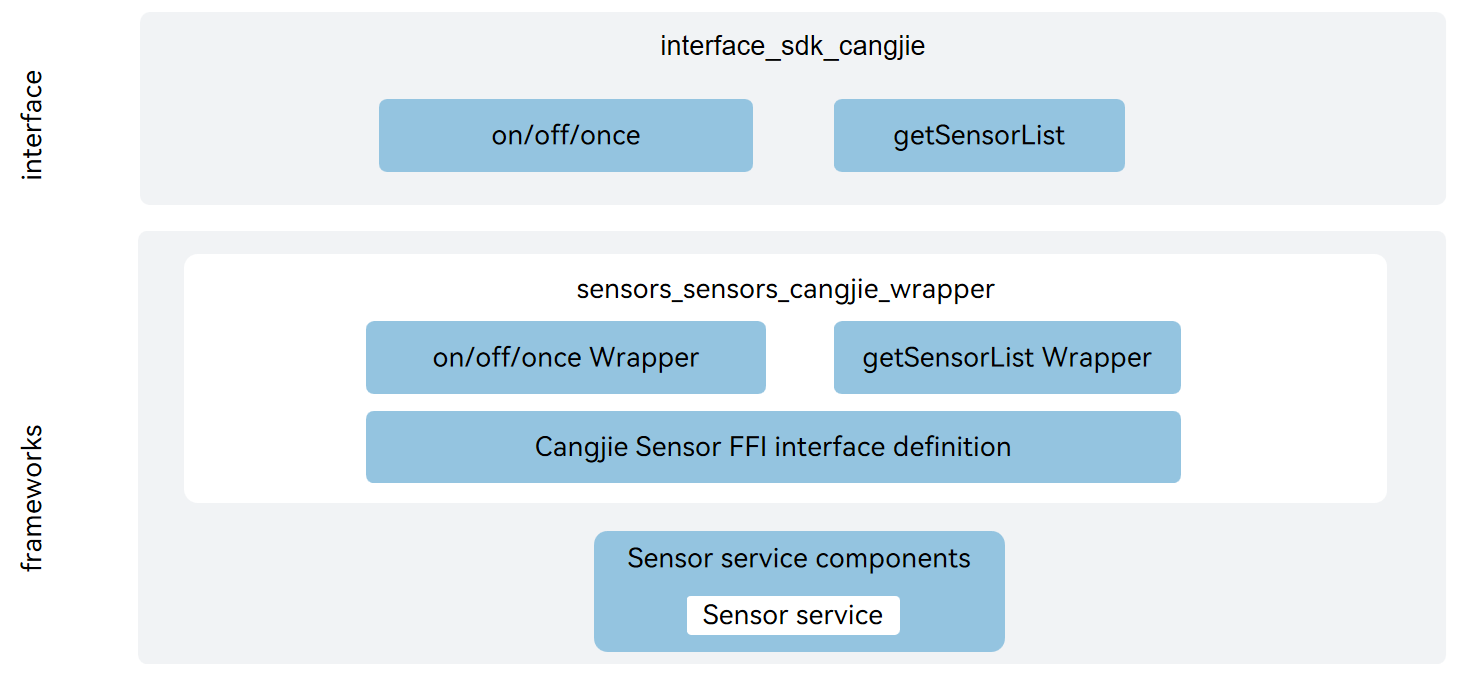
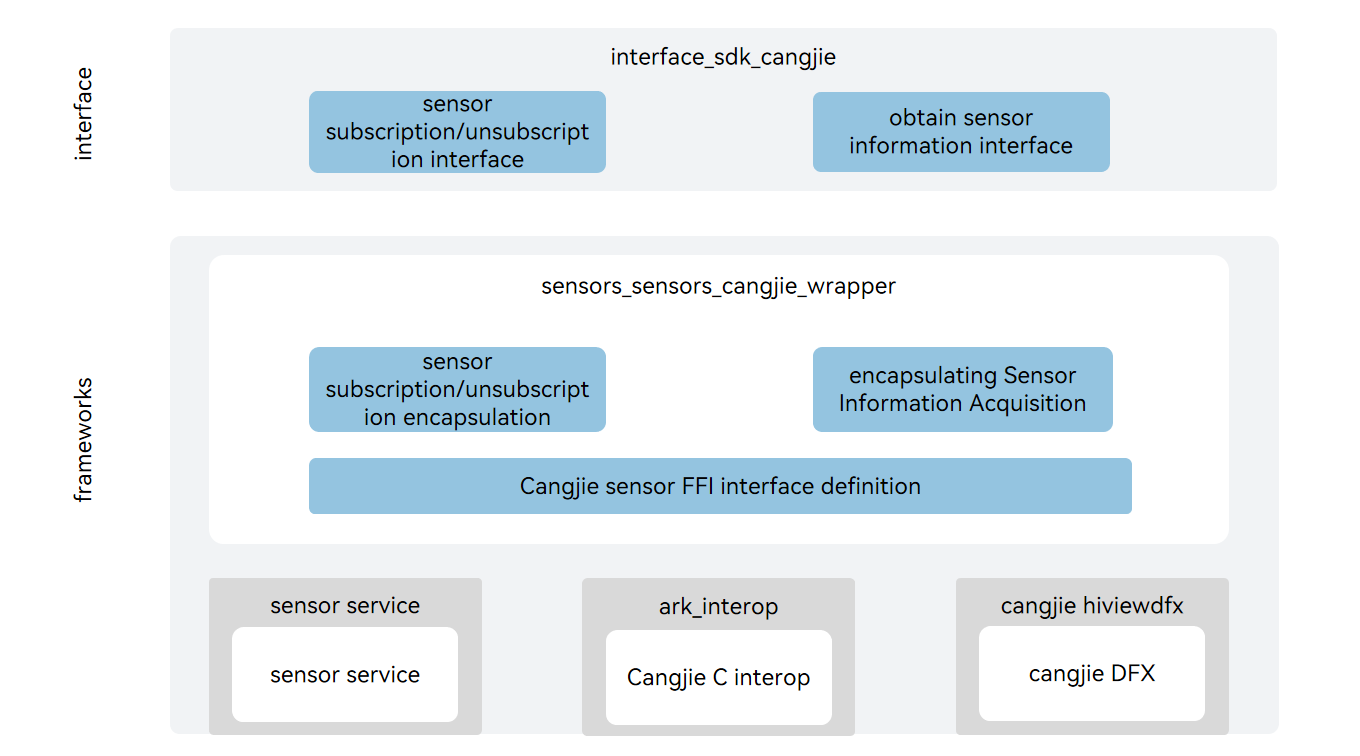
fix readme

diff --git a/README.md b/README.md
@@ -17,8 +17,8 @@ As shown in the architecture:
   - subscribing to or unsubscribing from sensor data.
   - obtaining Sensor data.
 - Interface encapsulation: Implement Sensor service capabilities using Cangjie.
-- Sensor Cangjie FFI interface definition: responsible for defining the C interoperability Cangjie interface, used to implement Cangjie Sensor capabilities.
-- Sensor Service: Responsible for providing basic Sensor functions and encapsulating C interfaces for interoperability with Cangjie.
+- Sensor Cangjie FFI interface definition: responsible for defining the C language interoperability Cangjie interface, used to implement Cangjie Sensor capabilities.
+- Sensor Service: Responsible for providing basic Sensor functions and encapsulating C language interfaces for interoperability with Cangjie.
 
 ## Directory Structure
 
@@ -44,7 +44,7 @@ As shown in the diagram, Sensor Service Cangjie provides the following capabilit
 - querying the sensor list.
 - subscribing to or unsubscribing from sensor data.
 
-Please refer to the Sensor related API for details[ohos.sensor(Sensors)](https://gitcode.com/openharmony-sig/arkcompiler_cangjie_ark_interop/blob/master/doc/API_Reference/source_en/apis/SensorServiceKit/cj-apis-sensor.md). 
+Please refer to the Sensor related API for details[ohos.sensor(Sensors)](https://gitcode.com/openharmony-sig/arkcompiler_cangjie_ark_interop/blob/master/doc/API_Reference/source_en/apis/SensorServiceKit/cj-apis-sensor.md).
 For relevant guidance, please refer to[Introduction to Sensor Service Kit Development](https://gitcode.com/openharmony-sig/arkcompiler_cangjie_ark_interop/blob/master/doc/Dev_Guide/source_en/device/sensor/cj-sensor-overview.md).
 
 Compared to ArkTS, the following features are currently not supported:
@@ -61,3 +61,7 @@ Developers are welcome to contribute code, documentation, etc. For specific cont
 ## Repositories Involved
 
 [sensors\_sensor](https://gitee.com/openharmony/sensors_sensor/blob/master/README.md)
+
+[cangjie_ark_interop](https://gitcode.com/openharmony-sig/arkcompiler_cangjie_ark_interop/blob/master/README.md)
+
+[hiviewdfx_cangjie_wrapper](https://gitcode.com/openharmony-sig/hiviewdfx_hiviewdfx_cangjie_wrapper/blob/master/README.md)

diff --git a/README_zh.md b/README_zh.md
@@ -14,16 +14,16 @@
 
 - 泛Sensor服务仓颉接口当前提供以下能力：
 
-  -   Sensor订阅/取消订阅。
-  -   获取Sensor信息。
+  - Sensor订阅/取消订阅。
+  - 获取Sensor信息。
 - 接口封装：使用仓颉实现Sensor服务能力。
-- Sensor仓颉FFI接口定义：负责定义C互操作仓颉接口，用于实现仓颉Sensor能力。
-- 传感器服务：负责提供Sensor基础功能，封装C接口提供给仓颉进行互操作。
+- Sensor仓颉FFI接口定义：负责定义C语言互操作仓颉接口，用于实现仓颉Sensor能力。
+- 传感器服务：负责提供Sensor基础功能，封装C语言接口提供给仓颉进行互操作。
 
 ## 目录
 
 ```
-base/sensors/sensors_cangjie_wrapper     
+base/sensors/sensors_cangjie_wrapper   
 ├── figures               # 存放README中的架构图
 ├── kit                   # Sensor仓颉服务kit化代码
 │   └── SensorServiceKit  # SensorServiceKit代码目录
@@ -34,8 +34,8 @@ base/sensors/sensors_cangjie_wrapper
 
 ## 约束
 
--   要使用Sensor的功能，设备必须具有对应的Sensor器件。
--   针对某些Sensor，开发者需要请求相应的权限，才能获取到相应Sensor的数据。
+- 要使用Sensor的功能，设备必须具有对应的Sensor器件。
+- 针对某些Sensor，开发者需要请求相应的权限，才能获取到相应Sensor的数据。
 
 ## 使用说明
 
@@ -62,3 +62,7 @@ base/sensors/sensors_cangjie_wrapper
 ## 相关仓
 
 [sensors\_sensor](https://gitee.com/openharmony/sensors_sensor/blob/master/README_zh.md)
+
+[cangjie_ark_interop](https://gitcode.com/openharmony-sig/arkcompiler_cangjie_ark_interop/blob/master/README_zh.md)
+
+[hiviewdfx_cangjie_wrapper](https://gitcode.com/openharmony-sig/hiviewdfx_hiviewdfx_cangjie_wrapper/blob/master/README_zh.md)
